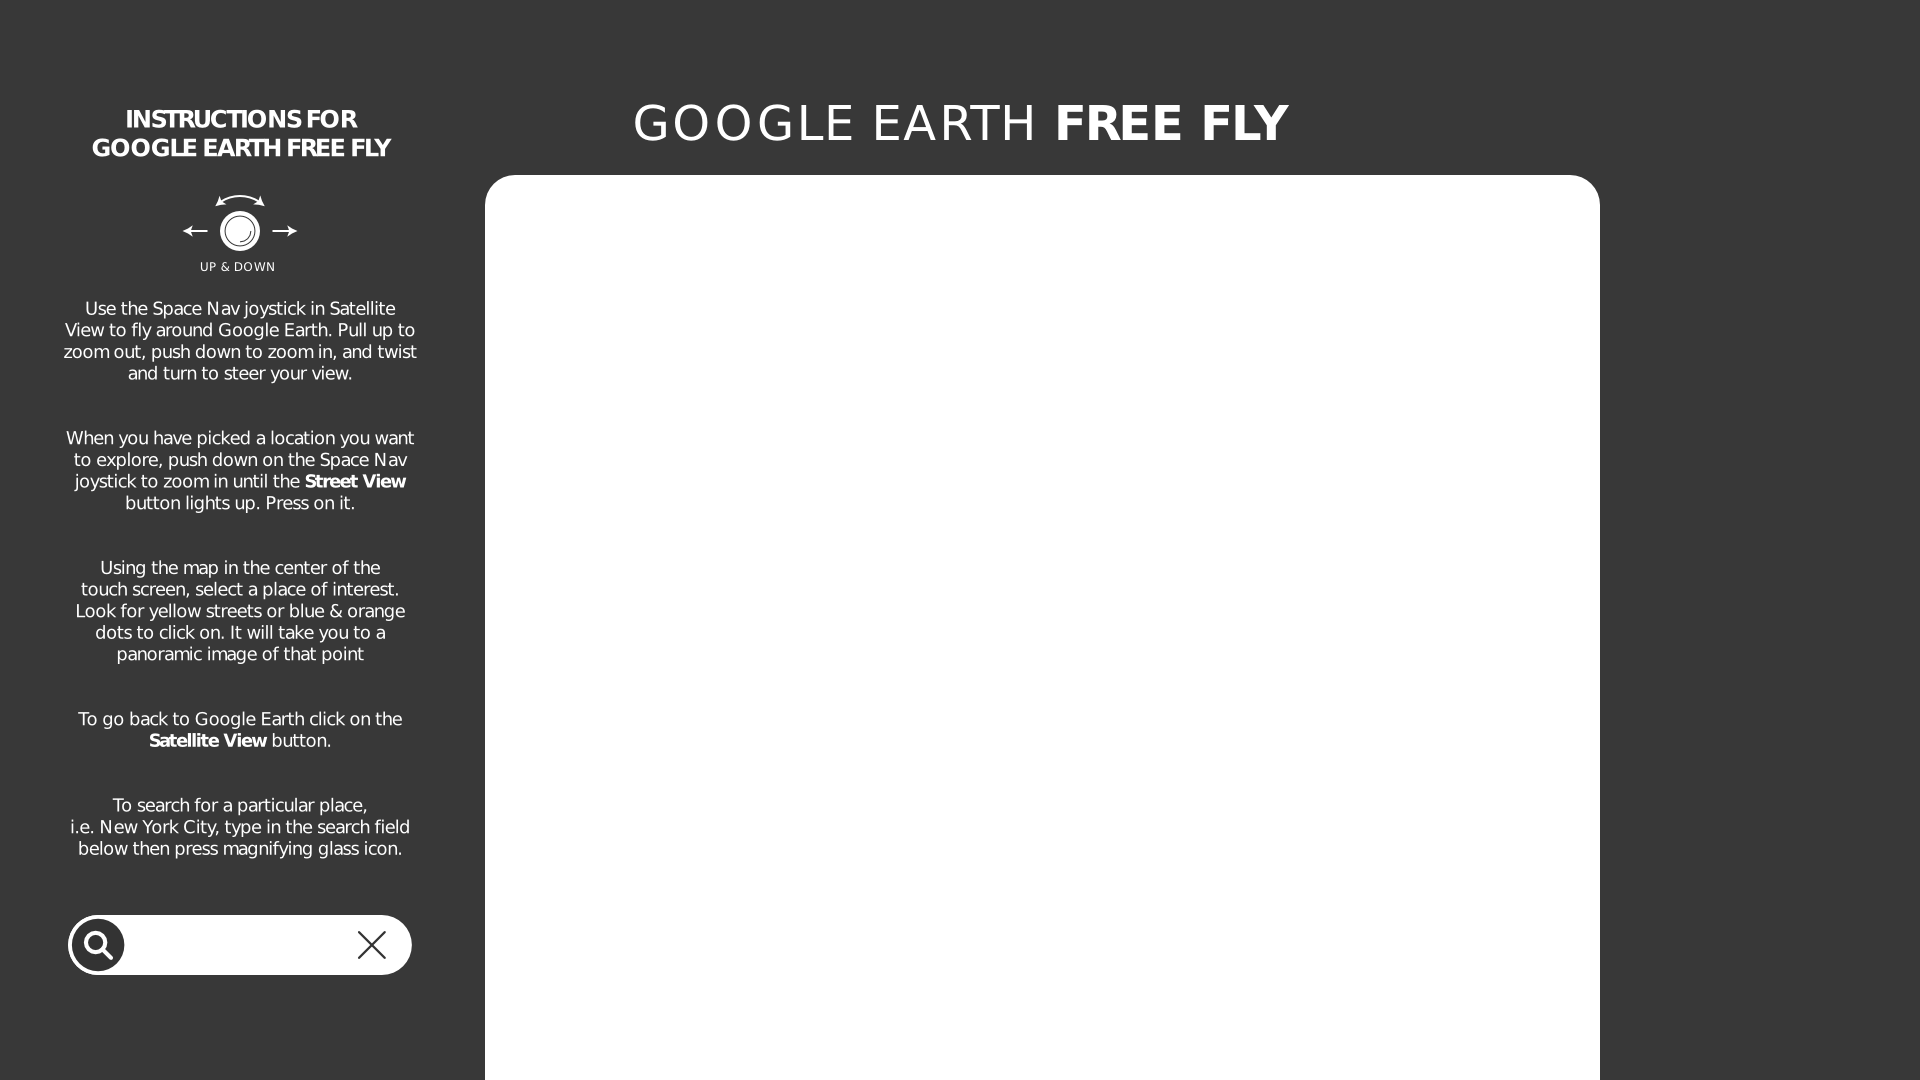
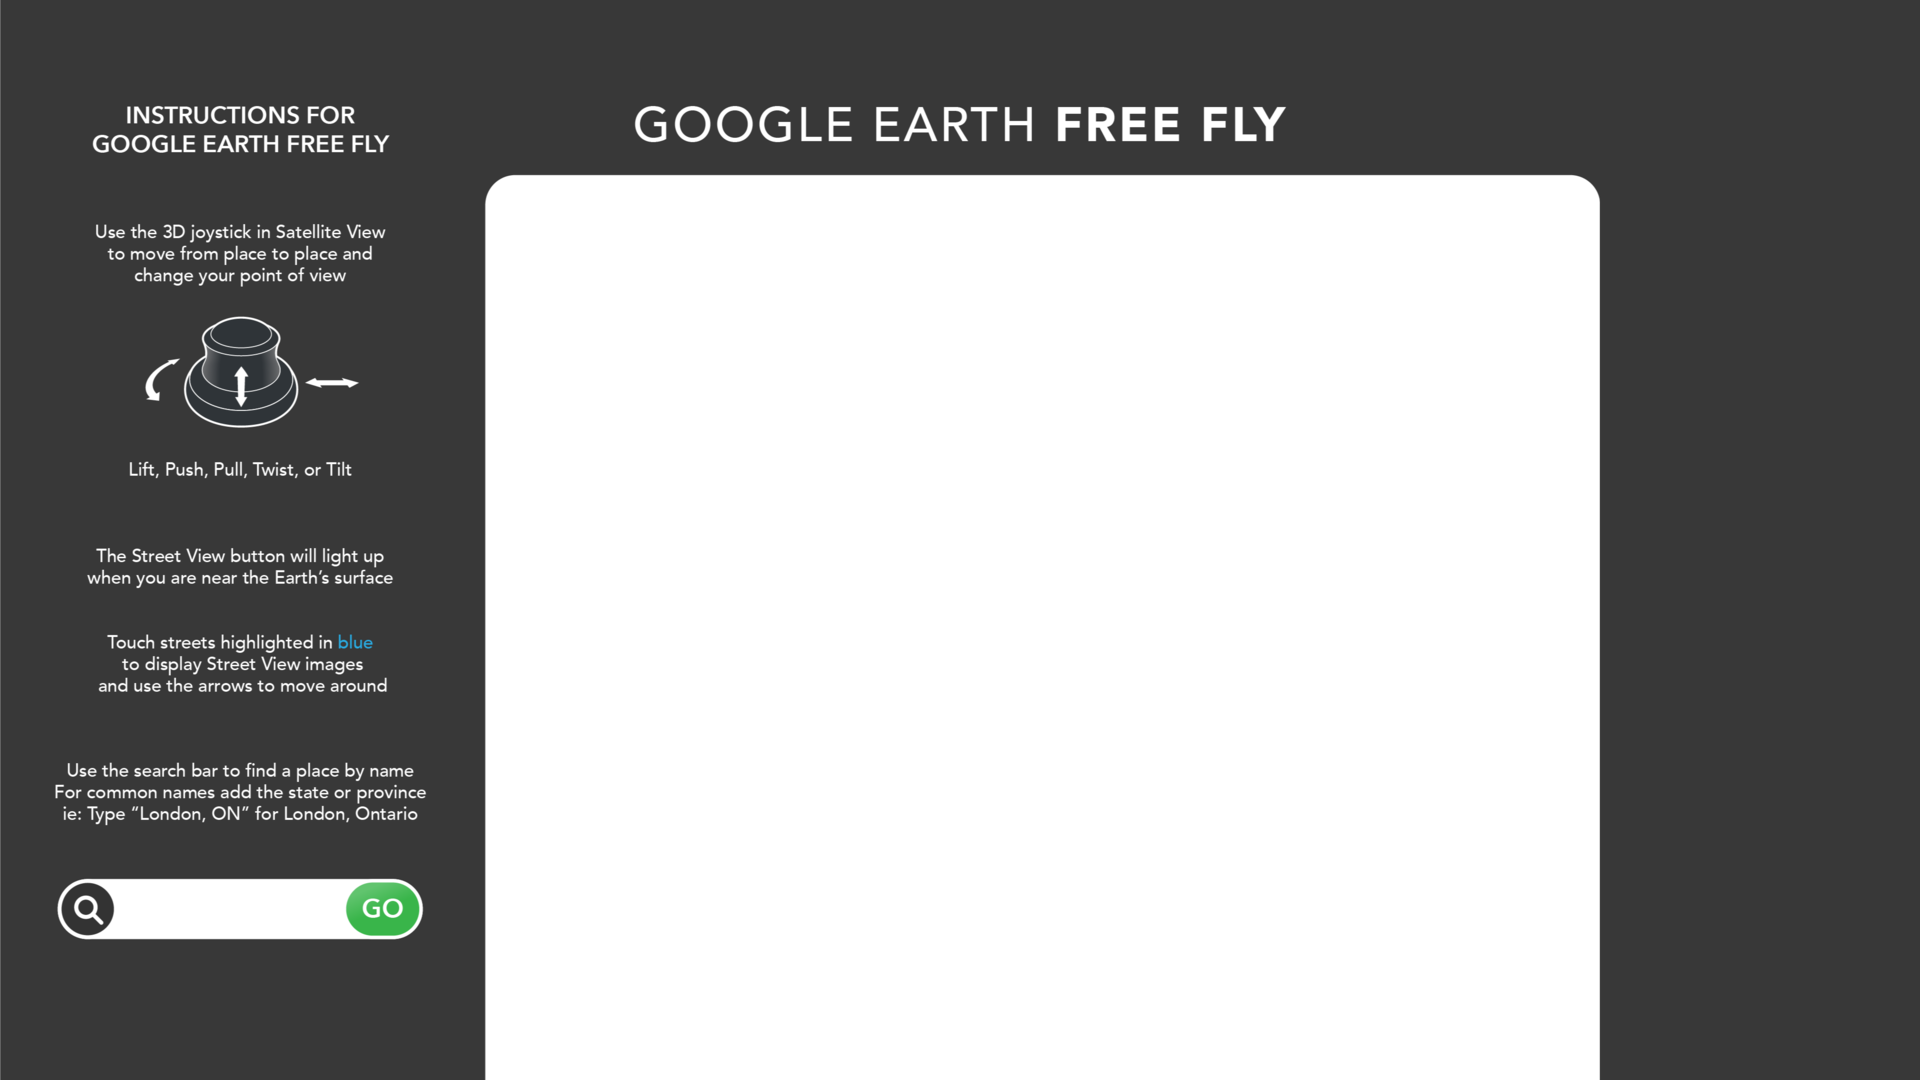
Update to new free fly border

Changed region(s): [[0.0312, 0.1833, 0.2188, 0.9167], [0.3438, 0.0917, 0.6875, 0.1528], [0.0312, 0.0917, 0.2188, 0.1528]]

diff --git a/src/main/resources/activity/webapp_ocean/stylesheets/style.css b/src/main/resources/activity/webapp_ocean/stylesheets/style.css
@@ -248,15 +248,15 @@ video {
 
 #search>.submit {
   position: absolute;
-  top: 900px;
-  left: -130px;
+  top: 860px;
+  left: 155px;
   width: 55px;
   height: 55px;
 }
 
 #search>.clear {
   position: absolute;
-  top: 900px;
+  top: 950px;
   right: 135px;
   width: 50px;
   height: 50px;
@@ -274,8 +274,8 @@ video {
 
 #search>input {
   position: absolute;
-  top: 900px;
-  left: -70px;
+  top: 860px;
+  left: -80px;
   height: 50px;
   width: 220px;
   margin: 0px;
